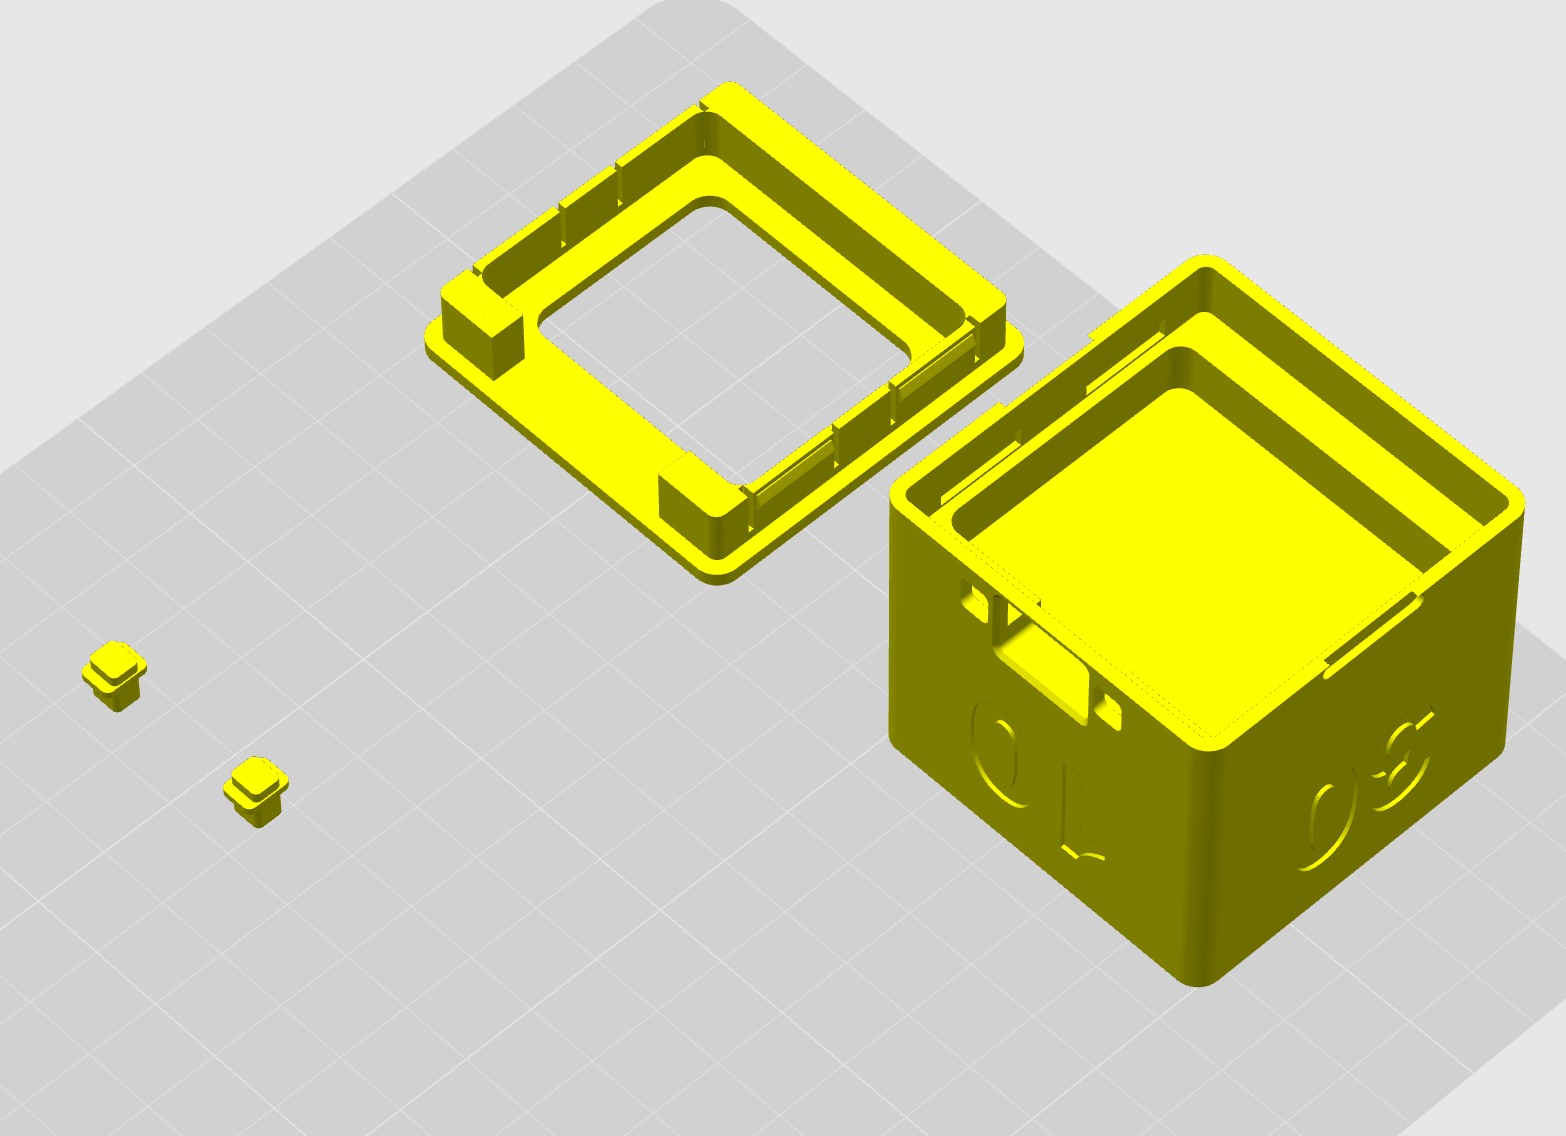
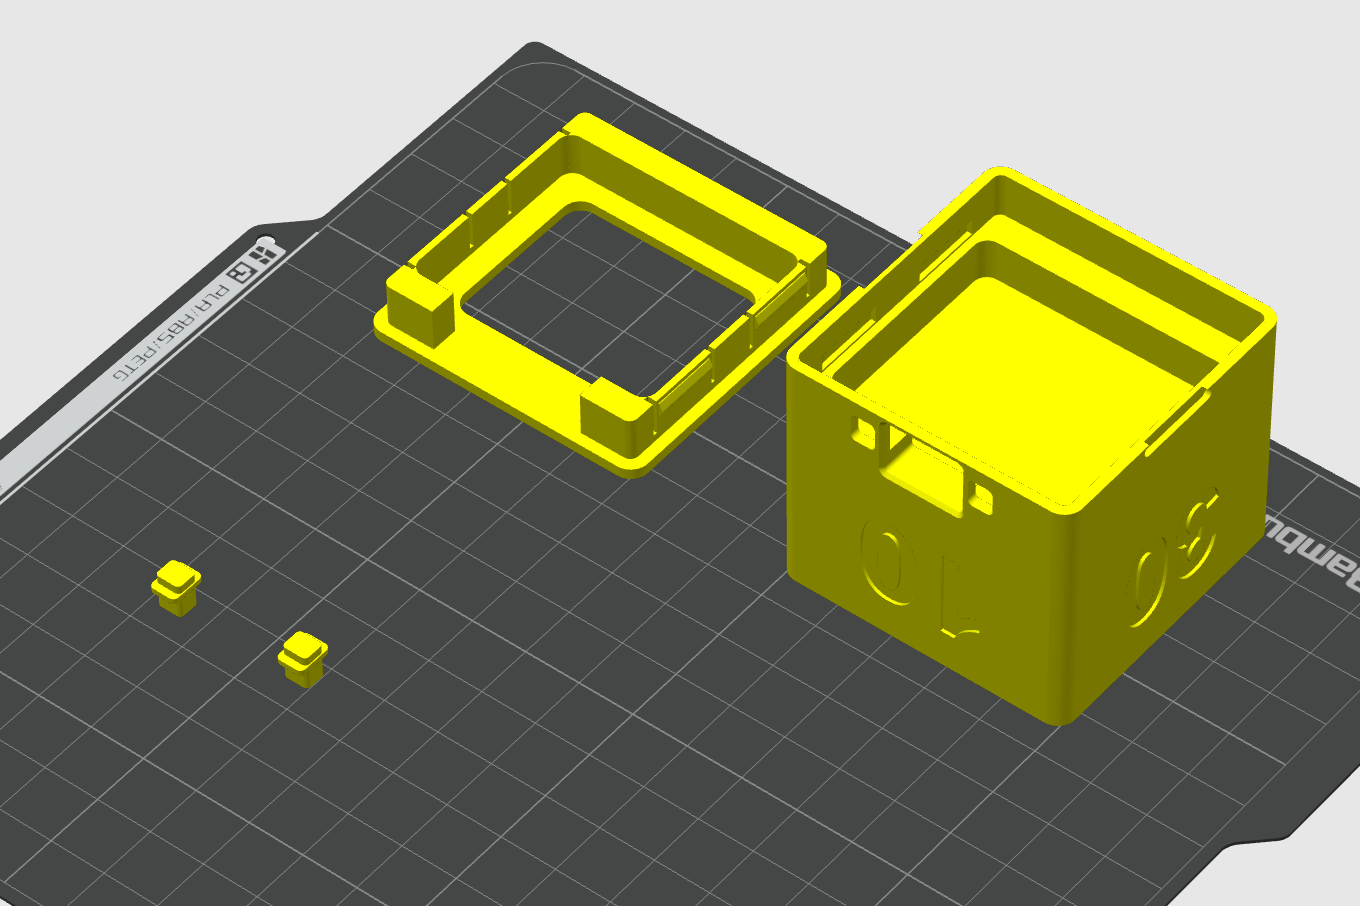
update links

diff --git a/README.md b/README.md
@@ -63,6 +63,12 @@ You can modify the following parameters in `clamp.py` to customize the ring clam
 
 ### Closet Rod Adapter
 
+<p align="center">
+  <a href="https://makerworld.com/en/models/2172973-closet-rod-adapter-customisable-with-build123d#profileId-2357070"><img src="assets/maker_world_logo.png" height="38"></a>
+  &nbsp;&nbsp;
+  <a href="https://www.printables.com/model/1533332-closet-rod-adapter-customisable-with-build123d"><img src="assets/printables_logo.png" height="38"></a>
+</p>
+
 | 3D Model | Real |
 |:---:|:---:|
 | <img src="closet_rod_adapter/closet_rod_adapter.png" alt="Closet Rod Adapter" width="100%"> | <img src="closet_rod_adapter/closet_rod_adapter_real.png" alt="Closet Rod Adapter real" width="100%"> |
@@ -85,10 +91,14 @@ You can modify the following parameters in `closet_rod_adapter.py` to customize 
 **Files:**
 - [closet_rod_adapter.py](closet_rod_adapter/closet_rod_adapter.py) - Source code
 - [closet_rod_adapter.stl](closet_rod_adapter/closet_rod_adapter.stl) - 3D model file
-- [Model on Makerworld](https://makerworld.com/en/models/2172973-closet-rod-adapter-customisable-with-build123d#profileId-2357070)
-- [Model on Printables](https://www.printables.com/model/1533332-closet-rod-adapter-customisable-with-build123d)
 
 ### Mug Dust Cover
+
+<p align="center">
+  <a href="https://makerworld.com/en/models/3019858-mug-dust-cover#profileId-3392740"><img src="assets/maker_world_logo.png" height="38"></a>
+  &nbsp;&nbsp;
+  <a href="https://www.printables.com/model/1774129-mug-dust-cover"><img src="assets/printables_logo.png" height="38"></a>
+</p>
 
 | 3D Model | Real |
 |:---:|:---:|
@@ -109,10 +119,14 @@ keeping the top closed against falling dust.
 **Files:**
 - [mug_dust_cover.py](mug_dust_cover/mug_dust_cover.py) - Source code
 - [mug_dust_cover.stl](mug_dust_cover/mug_dust_cover.stl) - 3D model file
-- [Model on Makerworld](https://makerworld.com/en/models/3019858-mug-dust-cover#profileId-3392740)
-- [Model on Printables](https://www.printables.com/model/1774129-mug-dust-cover)
 
 ### Hockey Player Holder
+
+<p align="center">
+  <a href="https://makerworld.com/en/models/3094867-hockey-player-holder#profileId-3487696"><img src="assets/maker_world_logo.png" height="38"></a>
+  &nbsp;&nbsp;
+  <a href="https://www.printables.com/model/1790789-hockey-player-holder"><img src="assets/printables_logo.png" height="38"></a>
+</p>
 
 | 3D Model | Real |
 |:---:|:---:|
@@ -133,19 +147,16 @@ Holder for tabletop hockey game player figures. Tubular body with a wider collar
 **Files:**
 - [hockey_player_holder.py](hockey_player_holder/hockey_player_holder.py) - Source code
 - [hockey_player_holder.stl](hockey_player_holder/hockey_player_holder.stl) - 3D model file
-- [Model on Makerworld](https://makerworld.com/en/models/3094867-hockey-player-holder#profileId-3487696)
-- [Model on Printables](https://www.printables.com/model/1790789-hockey-player-holder)
 
-### Pomodoro Timer Enclosure
+### Pomodoro Timer Enclosure for [esp_pomodoro_timer](https://github.com/khlebobul/esp_pomodoro_timer)
 
-Flip-to-start Pomodoro enclosure for the Waveshare ESP32-S3 Touch AMOLED
-1.8. It holds the complete device in its factory black enclosure
-(45.2 × 37.6 mm). The device drops into a snug pocket in the body. A front
-lid with the screen opening clicks on with four hidden cantilever tongues
-and an 8 mm deep frame. Matching scallops under the seam on two faces are
-enough to take the lid off by hand. A chamfered rectangular USB-C port sits
-on the +X face. The cavity behind the device is a light honeycomb so it
-prints without supports.
+<p align="center">
+  <a href="https://makerworld.com/en/models/3306634-pomodoro-timer-enclosure-for-esp32-s3-1-8-inch#profileId-3753456"><img src="assets/maker_world_logo.png" height="38"></a>
+  &nbsp;&nbsp;
+  <a href="https://www.printables.com/model/1842276-pomodoro-timer-enclosure-for-esp32-s3-touch-amoled"><img src="assets/printables_logo.png" height="38"></a>
+</p>
+
+Flip-to-start Pomodoro enclosure for the Waveshare ESP32-S3 Touch AMOLED 1.8. It holds the complete device in its factory black enclosure (45.2 × 37.6 mm). The device drops into a snug pocket in the body. A front lid with the screen opening clicks on with four hidden cantilever tongues and an 8 mm deep frame. Matching scallops under the seam on two faces are enough to take the lid off by hand. A chamfered rectangular USB-C port sits on the +X face. The cavity behind the device is a light honeycomb so it prints without supports.
 
 | With Buttons | Without Buttons |
 |:---:|:---:|
@@ -193,8 +204,6 @@ keys elsewhere.
 - [no_buttons/labeled](pomodoro_timer_enclosure/no_buttons/labeled), [no_buttons/unlabeled](pomodoro_timer_enclosure/no_buttons/unlabeled)
 - Each folder has `body` and the same wide-channel `lid`; button variants also have `button` (print 2)
 - STEP files are available beside each STL
-- [Model on Makerworld](TODO)
-- [Model on Printables](TODO)
 
 **References:**
 
